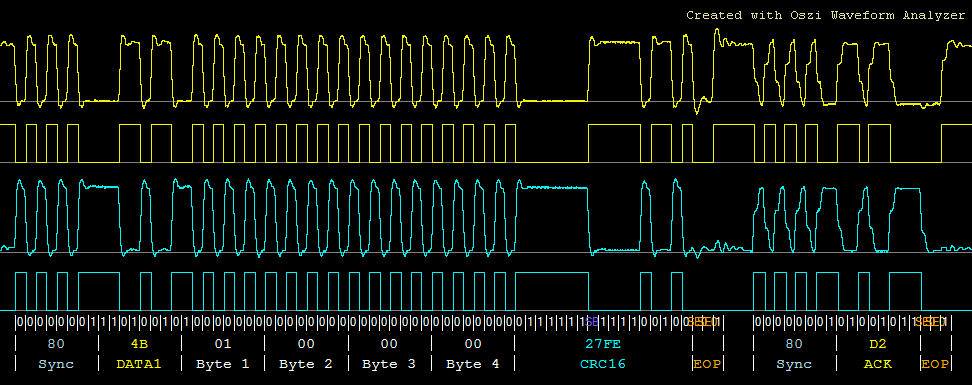
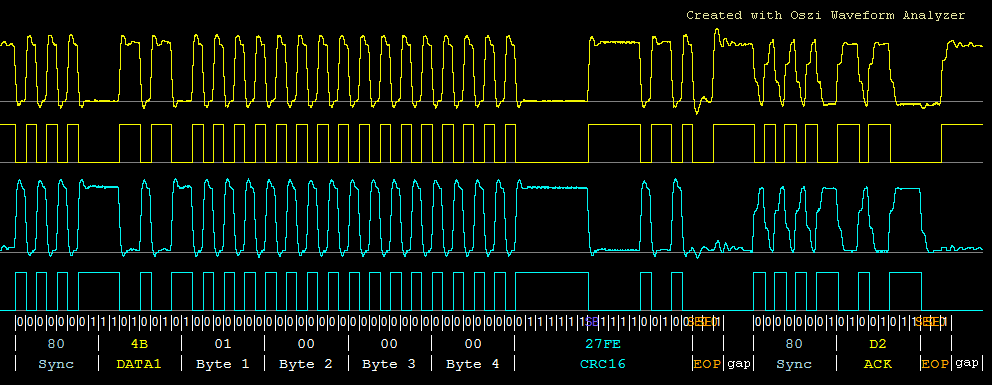
Sped Comparison added

diff --git a/User & Developer Manual.htm b/User & Developer Manual.htm
@@ -161,19 +161,19 @@
         <td>All bugs have been fixed. <nobr>See <a href="#Bugfixes">Bugfixes</a></nobr></td>
     </tr>
     <tr>
-        <td>Driver</td>
+        <td>USB Driver</td>
         <td>Slcan: No problem<br>Candlelight: The legacy firmware is so buggy that Windows cannot install the WinUSB driver.</td>
         <td>The WinUSB driver is installed automatically in less than a second. <nobr>See <a href="#Ms_OS_Descriptor">MS OS Descriptor</a></nobr></td>
     </tr>
     <tr>
-        <td>Error Handling</td>
-        <td>Candlelight: Very basic.<br>Slcan: Not existent</td>
+        <td>CAN Bus Errors</td>
+        <td>Slcan: Errors are not reported<br>Candlelight: Very basic error reports</td>
         <td>The firmware sends detailed error and status messages to the computer. <nobr>See <a href="#CAN_Errors">CAN bus Errors</a></nobr></td>
     </tr>
     <tr>
-        <td>Feedback</td>
+        <td>Command Feedback</td>
         <td>Not implemented.<br>You will never know why the adapter does not work.</td>
-        <td>If the firmware receives an invalid command it responds with a feedback error code. <nobr>See <a href="#Slcan_Responses">Feedback Codes</a></nobr></td>
+        <td>If the firmware receives an invalid command (e.g. unsupported baurate) it responds with a feedback error code. <nobr>See <a href="#Slcan_Responses">Feedback Codes</a></nobr></td>
     </tr>
     <tr>
         <td>Tx Echo</td>
@@ -183,11 +183,11 @@
     <tr>
         <td>USB Transfer Speed</td>
         <td>Candlelight uses the slow and misdesigned Geschwister Schneider protocol that sends always <b>80 bytes</b> over USB for any CAN FD packet no matter how many data bytes it has.</td>
-        <td>The ElmüSoft Candlelight protocol adds only a <b>2 byte header</b> to transfer a CAN packet as fast as possible over USB. Additionally multiple CAN packets can be sent without USB overhead in one <b>USB blob</b>. <nobr>See <a href="#Speed_Comparison">Speed Comparison</a></nobr></td>
+        <td>The ElmüSoft Candlelight protocol adds only a <b>2 byte header</b> to transfer a CAN packet as fast as possible over USB. Additionally multiple CAN packets are sent without USB overhead in one <b>USB blob</b>. ElmüSoft Candlelight is <span class="Error"> 3 times faster</span> than Geschwister Schneider. <nobr>See <a href="#Speed_Comparison">Speed Comparison</a></nobr></td>
     </tr>
     <tr>
         <td>Hardware CAN Filter</td>
-        <td>Not implemented.<br>All received CAN Packets are sent to the computer.</td>
+        <td>Not implemented.<br>All received CAN packets are sent to the computer.</td>
         <td>The user can define in up to 8 CAN filters which packets are sent to the computer. <nobr>See <a href="#Filter">Host Filter</a></nobr></td>
     </tr>
     <tr>
@@ -243,7 +243,7 @@
     <tr>
         <td>Sourcecode</td>
         <td>Sloppy code without comments.</td>
-        <td>You get very clean <a href="#Source_Code">Firmware Sourcecode</a> and three <a href="#Demo_Application">ready-to-use classes</a> for host software in C++, C# and Python for Windows and Linux with plenty detailed comments.</td>
+        <td>You get very clean <a href="#Source_Code">Firmware Sourcecode</a> and three <a href="#Demo_Application">ready-to-use classes</a> for host software in C++, C# and Python for Windows and Linux with plenty of detailed comments.</td>
     </tr>
     </table>
 </div>
@@ -516,6 +516,8 @@
 
 <a name="Speed_Comparison"></a>
 <h3>USB Data Transfer Speed</h3>
+<div class="DarkRed"><b>1.) Protocol Overhead:</b></div>
+<p>
 <div>The following table compares the efficiency of different firmware versions receiving a CAN FD packet.</div>
 <div>The payload in this example consists of a 29 bit CAN ID + 16 data bytes + flags = 21 byte.</div>
 <p>
@@ -527,24 +529,39 @@
 <div class="TableContainer">
     <table class="DataTable">
     <tr><th>Firmware</th><th>Payload</th><th>Transferred over USB</th><th>Efficiency</th></tr>
-    <tr><td>Legacy Official Slcan</td><td>21 byte</td><td>Payload x 2 + 2 = 44 byte</td><td>21 / 44 = <span style="color:#CC8800"><b>48 %</b></span></td></tr>
-    <tr><td>ElmüSoft Slcan 2.5</td><td>21 byte</td><td>Payload x 2 + 2 = 44 byte</td><td>21 / 44 = <span style="color:#CC8800"><b>48 %</b></span></td></tr>
-    <tr><td>Legacy Official Candlelight</td><td>21 byte</td><td>CAN FD not implemented</td><td align="right"><span style="color:#FF0000"><b>0 %</b></span></td></tr>
-    <tr><td>ElmüSoft Candlelight 2.5</td><td>21 byte</td><td>Payload + 2 = 23 byte</td><td>21 / 23 = <span style="color:#00AA00"><b>91 %</b></span></td></tr>
+    <tr><td>Legacy Official Slcan</td><td>21 byte</td><td>Payload x 2 + 2 = 44 byte</td><td><span style="color:#CC8800"><b>48 %</b></span> (21 / 44)</td></tr>
+    <tr><td>ElmüSoft Slcan 2.5</td><td>21 byte</td><td>Payload x 2 + 2 = 44 byte</td><td><span style="color:#CC8800"><b>48 %</b></span> (21 / 44)</td></tr>
+    <tr><td>Legacy Official Candlelight</td><td>21 byte</td><td>CAN FD not implemented</td><td><span style="color:#FF0000"><b>0 %</b></span></td></tr>
+    <tr><td>ElmüSoft Candlelight 2.5</td><td>21 byte</td><td>Payload + 2 = 23 byte</td><td><span style="color:#00AA00"><b>91 %</b></span> (21 / 23)</td></tr>
     </table>
 </div>
-<div>Additionally the Candlelight 2.5 protocol supports packing multiple frames into one USB packet.</div>
+<div>As you see the ElmüSoft Candlelight protocol has been highly optimized for the highest USB throughput.</div>
+<p>
+<div class="DarkRed"><b>2.) USB Overhead:</b></div>
 <table class="TblImage">
     <tr><td align="center"><b>USB Full Speed Transfer</b></td></tr>
     <tr><td><img src="Images/USB FS Oscilloscope.png" alt="USB Full Speed Oscilloscope Capture" width="252" height="100"></td></tr>
     <tr><td class="Center"><span class="Link" onClick="ShowFullSize(this, 0, 'Images/USB FS Oscilloscope.png')">Show Full Size</span></td></tr>
 </table>
 <div>This oscilloscope capture and analysis has been created with the open source <a href="https://netcult.ch/elmue/Oszi-Waveform-Analyzer" target="_blank">Oszi Waveform Analyzer</a>.</div>
-<div>To transfer 4 payload bytes over USB an overhead of SYNC, DATA1, CRC, EOP and an ACK packet is requried.</div>
-<div>The ElmüSoft protocol improves speed by sending as much as possible frames in one <b>BLOB</b> (Binary Large Object).</div>
-<div>The same USB protocol overhead is required if 4 bytes are sent or 64 bytes, which is the maximum for USB Full Speed.</div>
-<div>The new firmware can pack up to 250 frames with up to 2048 byte into one USB blob.</div>
+<div>USB requires sending an overhead of SYNC, DATA1, CRC, EOP, an ACK packet and 2 x inter-packet gap.</div>
+<div>This USB overhead must always be sent, no matter how many payload data bytes the USB packet transfers.</div>
+<p>
+<div class="TableContainer">
+    <table class="DataTable">
+    <tr><th>USB Payload</th><th>USB Overhead</th><th>Transferred over USB</th><th>Efficiency</th></tr>
+    <tr><td>1 byte&nbsp; =&nbsp;&nbsp; 8 bit</td><td>60 bits</td><td>68 bits (8 + 60)</td><td><b>11%</b> (8 / 68)</td></tr>
+    <tr><td>4 bytes = 32 bit</td><td>60 bits</td><td>92 bits (32 + 60)</td><td><b>34%</b> (32 / 92)</td></tr>
+    <tr><td>8 bytes = 64 bit</td><td>60 bits</td><td>124 bits (64 + 60)</td><td><b>51%</b> (64 / 124)</td></tr>
+    </table>
+</div>
+<p>
+<div>The larger the payload, the better becomes the USB troughput.</div>
+<div>The ElmüSoft protocol improves USB speed by sending as much as possible frames in one <b>BLOB</b> (Binary Large Object).</div>
+<div>The new Candlelight protocol can pack up to 250 frames with up to 2048 byte into one USB blob.</div>
 <div>Blobs are only sent at very high CAN speeds if there are multiple frames waiting in the USB FIFO.</div>
+<p>
+<div>Speed Tests show that the ElmüSoft Candlelight protocol transfers <span class="Error">3 times more CAN traffic</span> than legacy Candlelight.</div>
 
 
 <a name="Legacy_Installation"></a>
